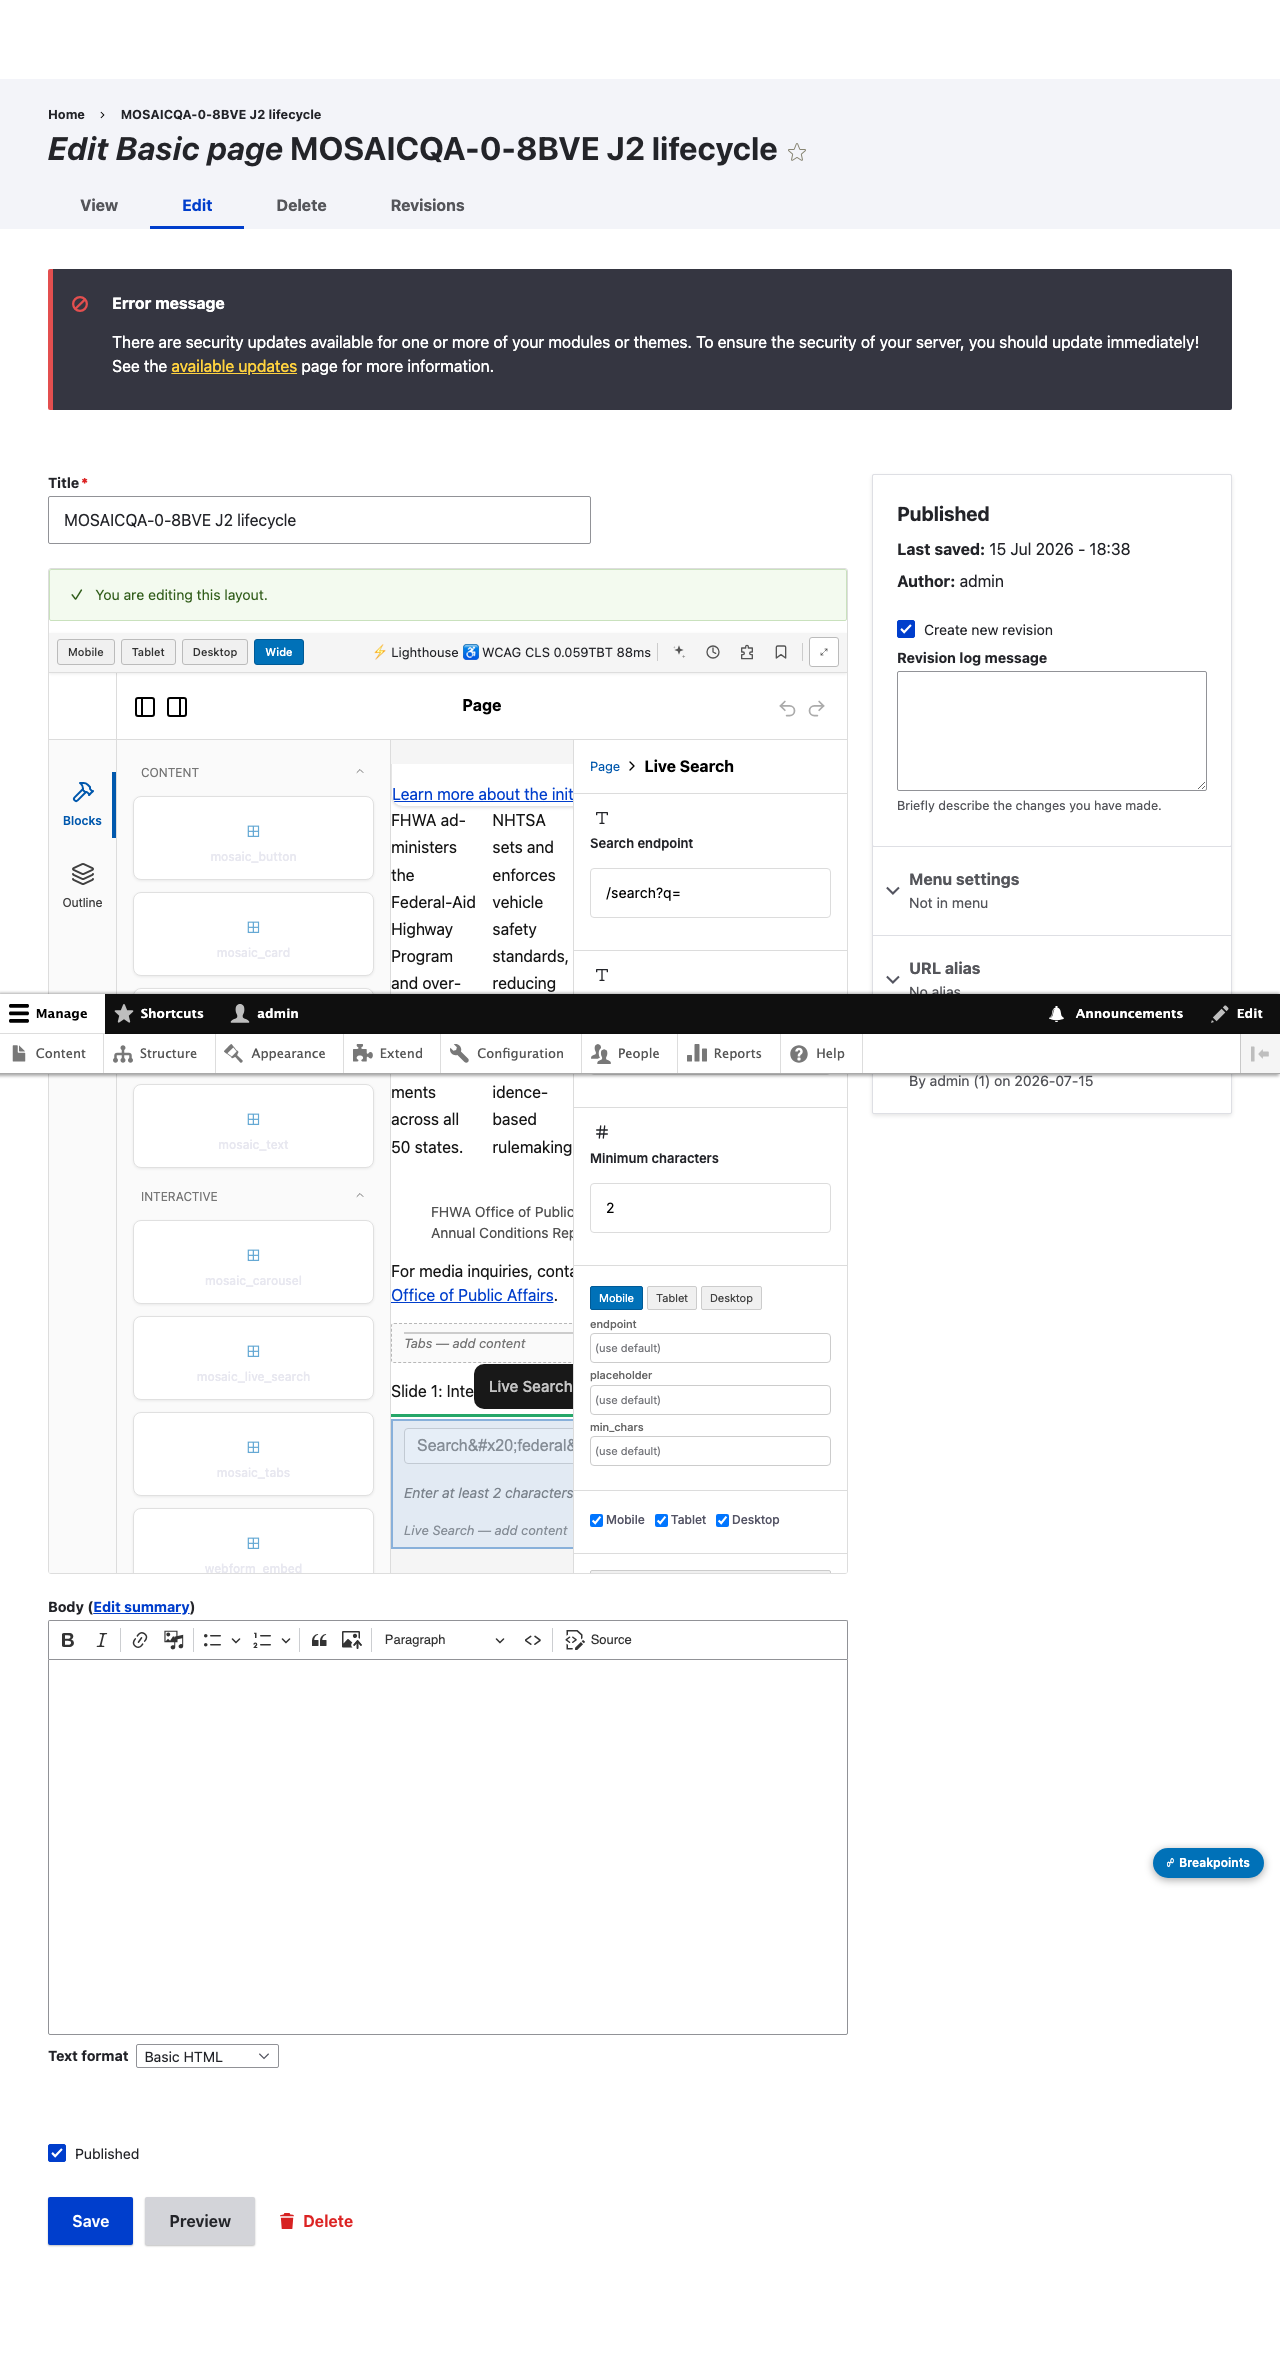
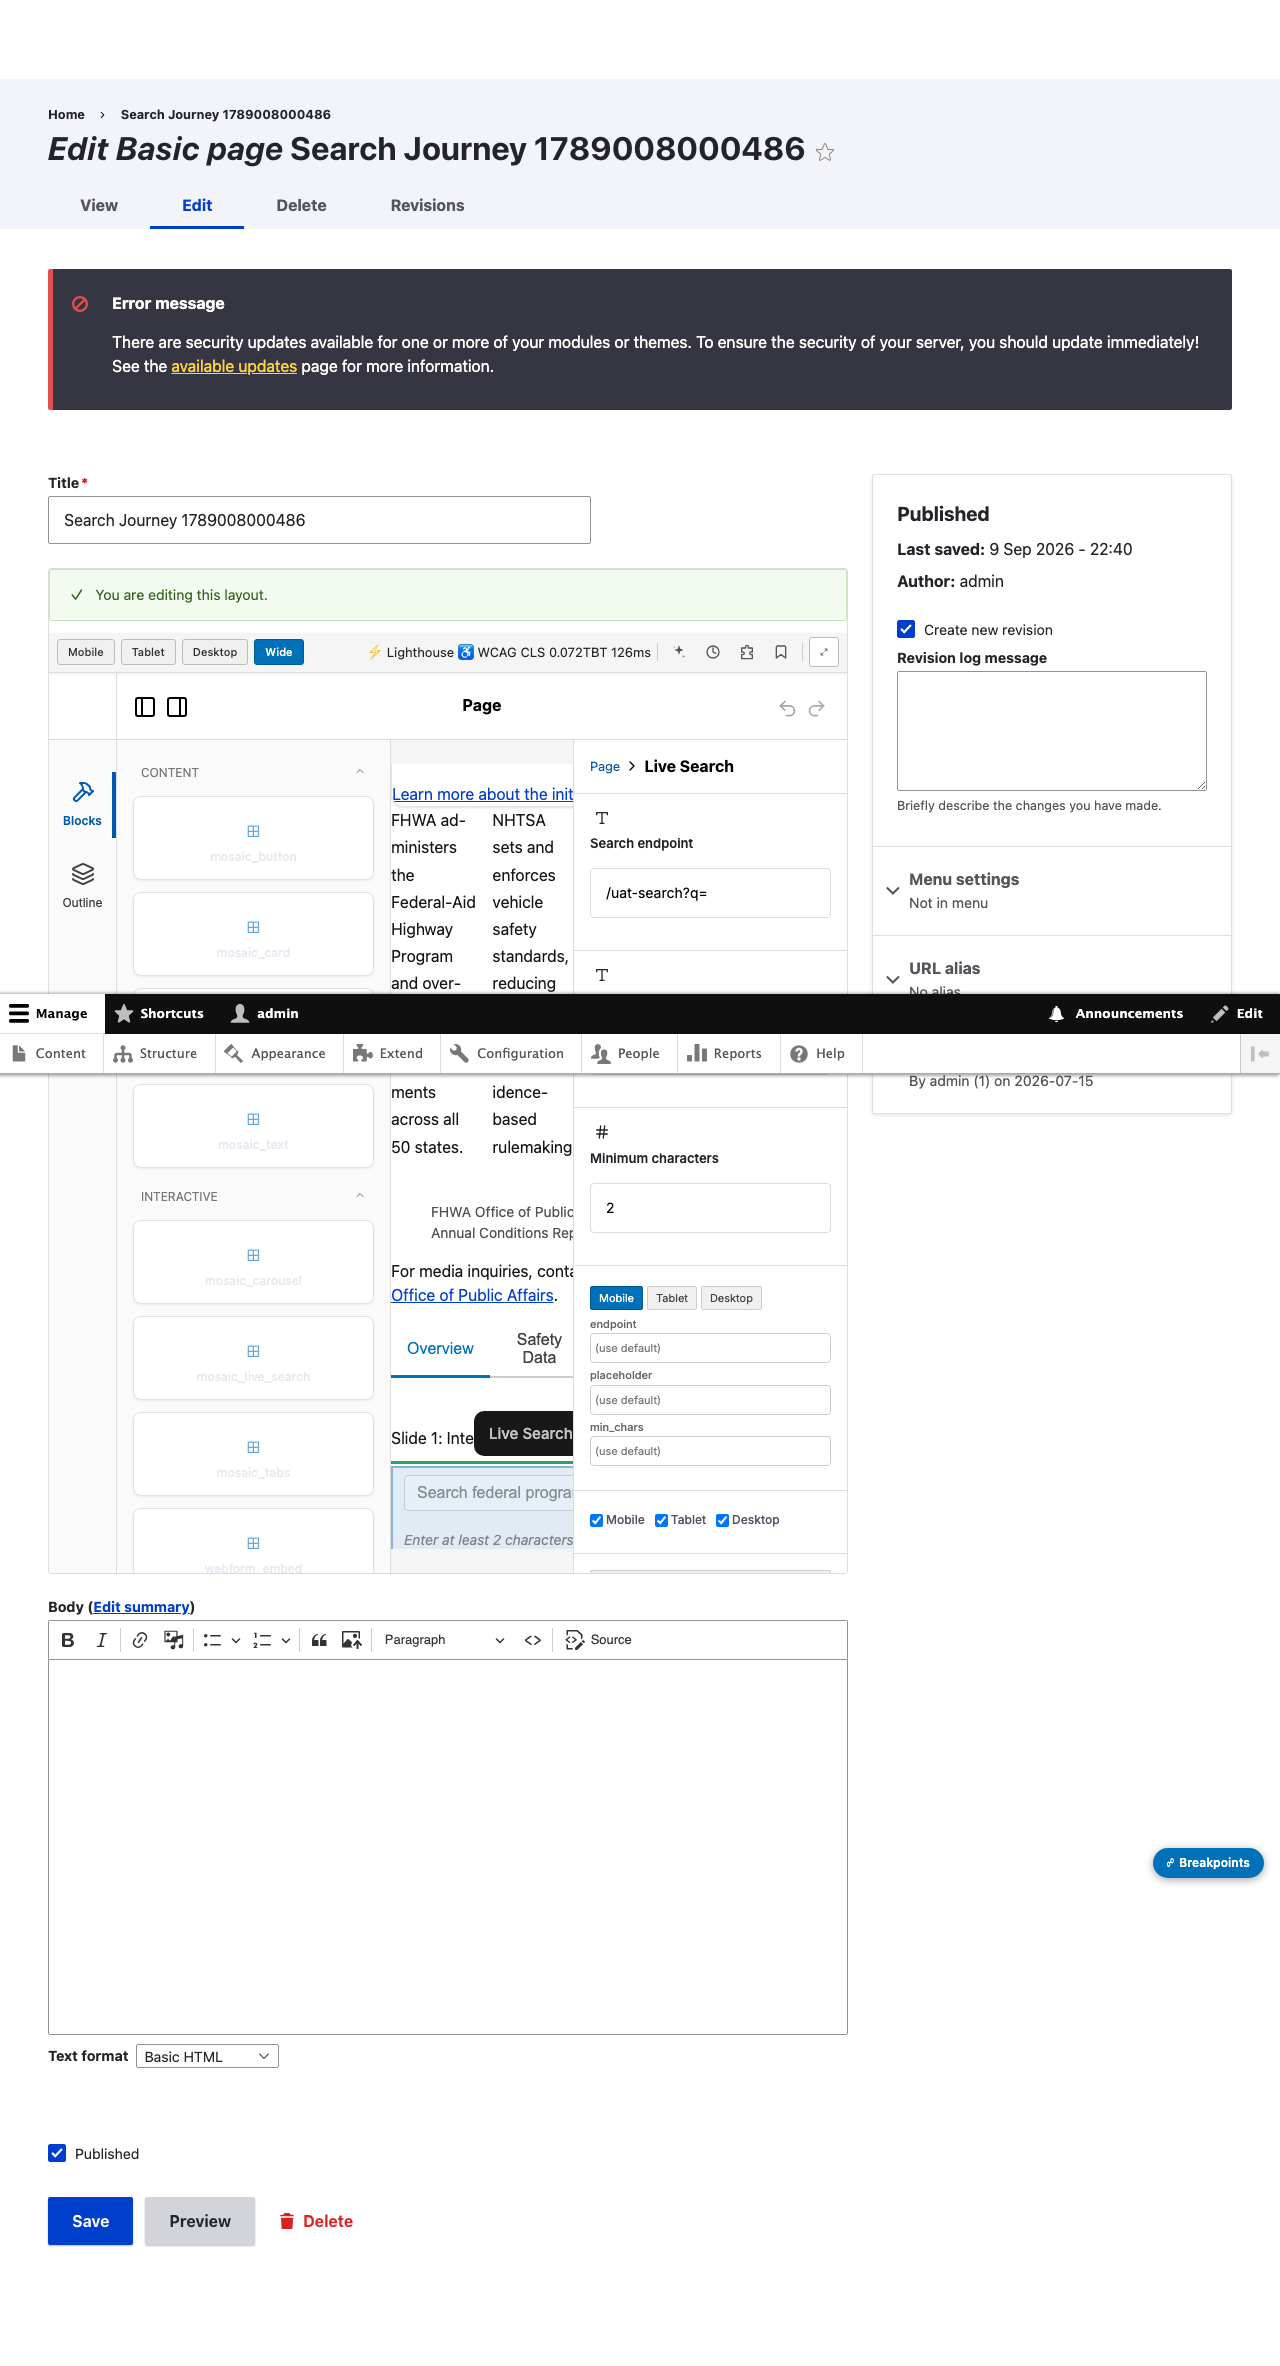
WALK-CATCH #49 / F-100 placeholder double-escape FIXED — record + re-shot album
live_search html_attr double-escape root-fixed via autoescape; disease class swept (button/card/image/tabs), 0 escape('html_attr') module-wide. Gates green: FULL Kernel 178/178, FULL Unit 2688/2688, Functional 11/11, journey GREEN. No js/src → no dist.

diff --git a/ledger-live/SHIP-33.md b/ledger-live/SHIP-33.md
@@ -44,6 +44,45 @@ consumed by the existing built adapter — `MosaicPuckAdapter.fieldTypeFields`).
 Screenshot 01/02 visually confirm the Puck panel "Page › Live Search" with the labelled **Search endpoint**
 (`/search?q=`) + **Minimum characters** (`2`) fields.
 
+## WALK-CATCH #49 / F-100 — placeholder double-escaping (FIXED; ship #33 was frozen on this)
+
+**Arun's live evidence:** node view rendered `placeholder="Search&#x20;this&#x20;site..."` — the
+visitor saw literal escape codes.
+
+**Q1 witness (root cause, quoted):** stored `placeholder = "Search federal programs…"` (literal spaces)
+→ `mosaic_live_search.twig:19` `{% set placeholder = props.placeholder|default('Search…')|escape('html_attr') %}`
+(html_attr encodes space → `&#x20;`) → re-emitted as `{{ placeholder }}` in an html output context, where
+Twig autoescape RE-ESCAPES it (escape-strategy mismatch: safe-for-`html_attr` ≠ output `html`), so `&`→`&amp;`
+→ served bytes `placeholder="Search&amp;#x20;federal&amp;#x20;programs&amp;#x2026;"` (**double-encoded**);
+the browser decodes `&amp;#x20;` → literal text `&#x20;`. Micro-witness proved: set-then-output = double;
+inline `{{ v|escape('html_attr') }}` = single (browser-correct); autoescape = single, spaces preserved, XSS-safe.
+
+**Q2 root fix:** dropped the explicit `html_attr` pre-escape in `mosaic_live_search.twig`; each quoted
+attribute (`endpoint`, `placeholder`, `aria-label`) now relies on standard Twig autoescape (html) — single,
+correct, XSS-safe. **RED→GREEN** Kernel `MosaicLiveSearchRenderTest` (RED: `&amp;#x20;` present → GREEN)
++ payload cells: quotes/apostrophes/ampersand/unicode round-trip via a single decode; a `" onfocus="alert(1)`
+attribute-breakout payload is neutralised (closing quote encoded → stays inside the value). 4 cells, 29 assertions.
+
+**Q3 disease-class sweep (each hit quoted + verdict):**
+- `mosaic_live_search.twig:19` endpoint+placeholder — **double-escape (the bug) → FIXED**.
+- `mosaic_button.twig:28` href · `mosaic_card.twig:42/43/64` src/alt/href · `mosaic_image.twig:44-48,70-74`
+  src/alt/loading/width/height · `mosaic_tabs.twig:24` labels — Pattern B (inline html_attr = **single**,
+  browser-correct, NOT the visible disease) but same over-encoding smell → **also converted to autoescape**
+  (root-correct, "never raw", clears `&#x20;` from source everywhere). Tabs sweep cell added.
+- **Live proof:** node 803 now serves `placeholder="Search federal programs…"` + `labels="Overview,Safety Data,Funding"`;
+  page-wide `&#x20;` count = **0**.
+
+**Gates (F-100) — ALL GREEN:** phpcs 0 errors · Vitest 482/1-preexisting-B101 · live_search+tabs render
+**11/11 (110 assertions)** · **FULL Kernel 178/178 (952 assertions)** · **FULL Unit 2688/2688 (1 pre-existing
+warning)** · Functional component render (button/card/image/tabs) **11/11 (91 assertions)** · ship33-search
+journey GREEN — now asserts the served placeholder holds literal spaces + no `&#x20;`/`&amp;#x20;`; album
+`07-page-render` re-shot. Disease class **0 `escape('html_attr')` module-wide** (incl. disabled submodules).
+**No `js/src` touched → no dist / no version bump.**
+
+**F-100 change set (tracked; Arun to add):** `mosaic_live_search.twig` · `mosaic_button.twig` ·
+`mosaic_card.twig` · `mosaic_image.twig` · `mosaic_tabs.twig` · `tests/.../MosaicLiveSearchRenderTest.php` (new) ·
+`tests/.../MosaicTabsRenderTest.php` (+1 cell).
+
 ## Noise verdict
 Clean. Two intentional tracked source changes + one pre-existing `.gitignore`. The dormant
 `V5ToV6Migration.php` + its test remain untracked by design (carousel HOLD). No stray/unintended edits.

diff --git a/ledger-live/TODO.md b/ledger-live/TODO.md
@@ -11993,4 +11993,23 @@ covered the media library still "passed" because the DOM click ignored z-order).
   **Record:** SHIP-33.md. **Tracked change set (Arun to commit):** mosaic_live_search.mosaic.yml +
   ManifestFieldTypesTest.php (+ pre-existing .gitignore). Journey spec gitignored (js/e2e, F-048).
 - **REMAINING ship #33 = carousel core** (S2b+S2c+activate v6+33-fixture oracle heal+active-slide sync
-  witness-first+S2f) per SHIP-33-PLAN.md — the dedicated coupled green landing. Walk tally 48.
+  witness-first+S2f) per SHIP-33-PLAN.md — the dedicated coupled green landing.
+
+## WALK-CATCH #49 / F-100 — placeholder double-escaping (FIXED 2026-09-09; ship #33 was frozen)
+
+- **Arun live evidence:** node view rendered `placeholder="Search&#x20;this&#x20;site..."` — visitor saw
+  literal escape codes. **Root cause (Q1):** `mosaic_live_search.twig:19` `{% set placeholder = props.
+  placeholder|escape('html_attr') %}` then re-emitted `{{ placeholder }}` in an html context → Twig
+  autoescape RE-ESCAPES (strategy mismatch safe-for-html_attr ≠ output-html) → `&`→`&amp;` → served
+  `&amp;#x20;` (double) → browser shows literal `&#x20;`. Micro-witness: set-then-output=double, inline
+  html_attr=single(browser-ok), autoescape=single+spaces-preserved+XSS-safe.
+- **Q2 FIX (root):** dropped html_attr pre-escape; standard autoescape at each quoted attr. RED→GREEN
+  Kernel MosaicLiveSearchRenderTest (4 cells/29 assertions: literal-space + quotes/apos/amp/unicode
+  round-trip + attribute-breakout neutralised). **Q3 SWEEP:** button/card/image/tabs inline html_attr
+  (single, browser-ok, same smell) → ALSO converted to autoescape → **0 `escape('html_attr')` module-wide**;
+  tabs sweep cell added. Live node 803: `placeholder="Search federal programs…"`, page `&#x20;`=0.
+- **Gates ALL GREEN:** phpcs 0-err · Vitest 482/1-pre · render 11/11 · FULL Kernel 178/178 (952) · FULL
+  Unit 2688/2688 (1 warn) · Functional component render 11/11 (91) · ship33-search journey GREEN (now
+  asserts literal placeholder). No js/src → no dist. **Change set (Arun add):** 5 twigs (live_search,
+  button, card, image, tabs) + MosaicLiveSearchRenderTest.php (new) + MosaicTabsRenderTest.php (+1 cell).
+- **Walk tally 49** (#49/F-100 FIXED). Ship #33 unfrozen; carousel core still pending its dedicated run.
